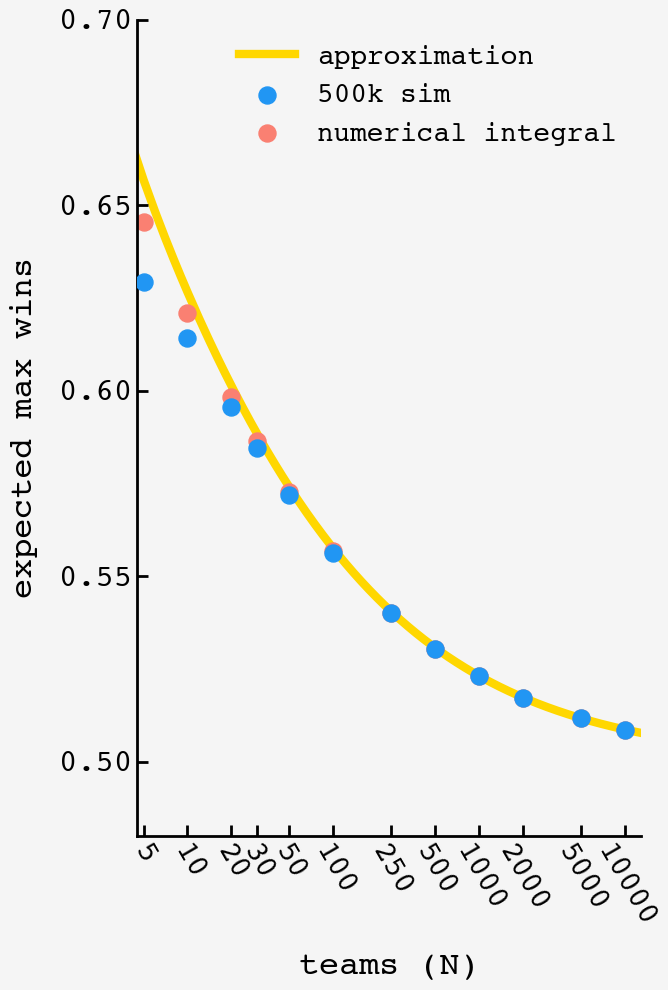
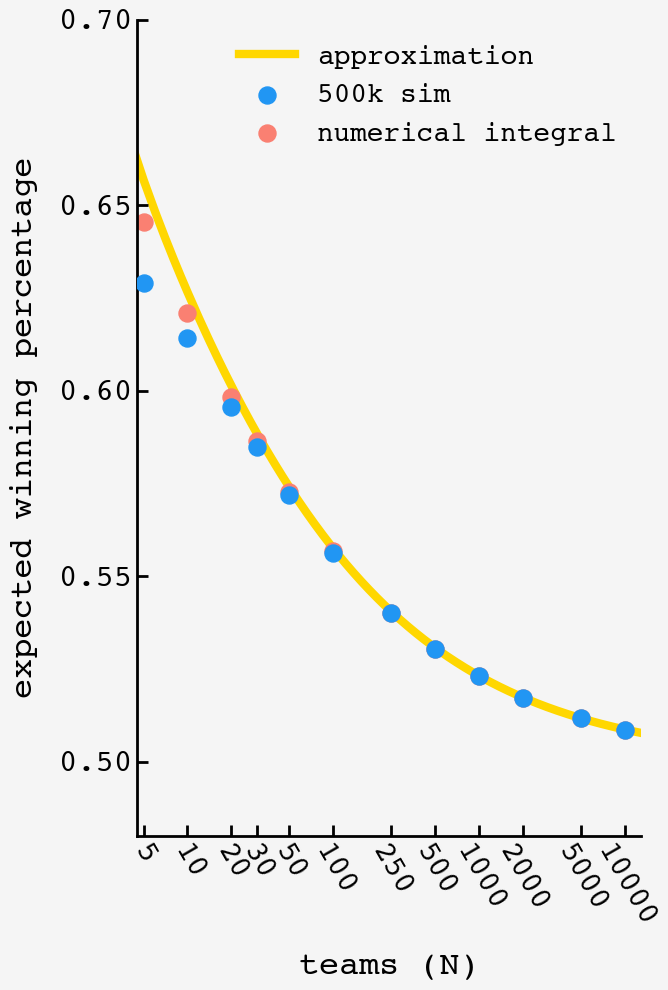
Plot update, stray comma.

Changed region(s): [[0.0, 0.1515, 0.0599, 0.697]]

diff --git a/_posts/2026-08-09-fiddler-baseball-league.md b/_posts/2026-08-09-fiddler-baseball-league.md
@@ -185,11 +185,12 @@ We picked $y_0$ to that $\Phi(y_0) = 1-1/N$ so $y_0 = \Phi^{-1}(1-1/N).$ For the
 
 To see how the winner stands out from the crowd as the number of teams grows, holding to the pattern that each team plays $5$ games against each other team, so that $G=5(N-1),$ we can plot the result as a winning percentage along with a $500,000$ trial simulation and the numerical integral. We see excellent agreement as the number of teams grows.
 
-We also see that, somewhat counterintuitively, the best team gets worse and worse as the competition intensifies. Even though there are more oponents to overcome, the crushing regularity of a large number of coin flips means that all teams are stuck close to the mean. As the number of teams grows toward infinity, the expected maximum decays toward $50\%.$
-
 ![](/img/2026-08-09-fiddler-baseball-theory-sim.png){:width="450 px" class="image-centered"}
 
-If, instead, we scale the number of teams, but hold the number of games played constant at $145$ we do indeed see the winning teams win total grow with $N$ though rather slowly. Also, the fidelity of the normal approximation no longer increases with scale since that is tied to the number of games.
+We also see that, somewhat counterintuitively, the best team gets worse and worse as the competition intensifies. Even though there are more oponents to overcome, the crushing regularity of a large number of coin flips means that all teams are stuck close to the mean. As the number of teams grows toward infinity, the expected maximum decays toward $50\%.$
+
+
+If, instead, we scale the number of teams, but hold the number of games played constant at $145,$ we do indeed see the winning teams win total grow with $N$ though rather slowly. Also, the fidelity of the normal approximation no longer increases with scale since that is tied to the number of games.
 
 ![](/img/2026-08-09-fiddler-baseball-theory-sim-constant-games.png){:width="728 px" class="image-centered"}
 
